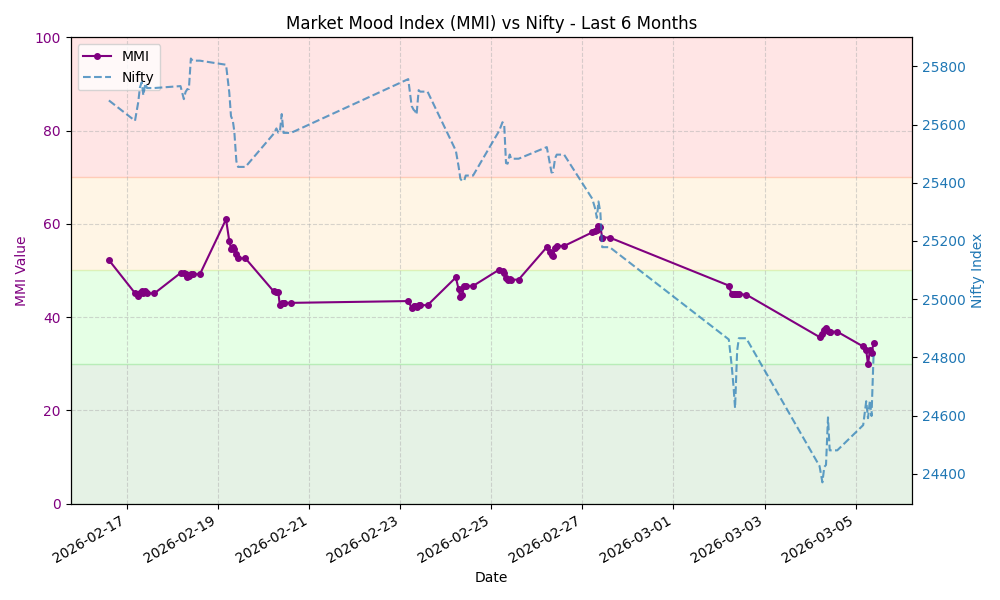
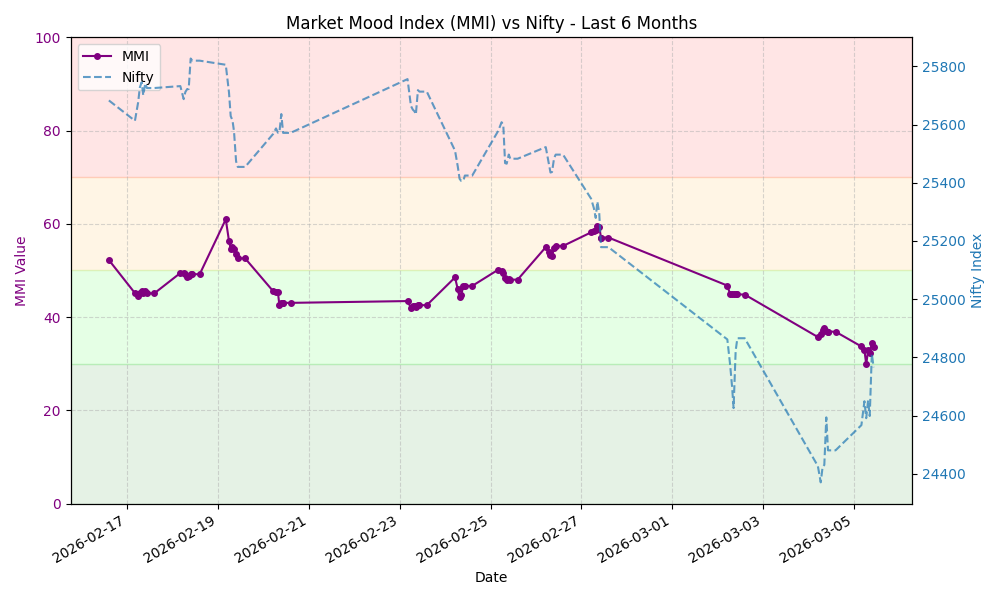
Update MMI data and chart

diff --git a/README.md b/README.md
@@ -7,8 +7,8 @@ This repository automatically fetches the MMI value, stores the history, and gen
 
 ## Latest MMI Value
 
-**34.44** - **Fear**
-<small>Last Updated: 2026-03-05 09:30 UTC</small>
+**33.47** - **Fear**
+<small>Last Updated: 2026-03-05 10:27 UTC</small>
 
 ## MMI Trend (Last 30 Days)
 
